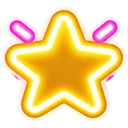
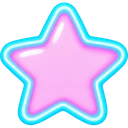
ナチュラルの地図・鍵・空の星、ネオンの星・リセットを追加。🔒の文字をスキン別イラストに差し替え
Claude-Session: https://claude.ai/code/session_01C8PtLCLrCZA399Ryqnq6qb

diff --git a/fit.js b/fit.js
@@ -127,7 +127,7 @@
       t+=(s==='natural'?'.mcIco[data-k='+k+'],':'')+'body[data-vt='+s+'] .mcIco[data-k='+k+']{background-image:url('+BASE+'img/ico/'+s+'_'+k+'.webp)}';
     }); });
     // 絵があるスキンだけイラスト、無いスキンは元の絵文字を表示
-    var HAS={skin:['natural','retro','neon'],gear:['natural','retro','neon'],undo:['natural','retro','neon'],first:['natural','retro','neon'],second:['natural','retro','neon'],map:['retro','neon']};
+    var HAS={skin:['natural','retro','neon'],gear:['natural','retro','neon'],undo:['natural','retro','neon'],first:['natural','retro','neon'],second:['natural','retro','neon'],map:['natural','retro','neon']};
     Object.keys(HAS).forEach(function(k){ ['natural','retro','neon'].forEach(function(s){
       var q=(s==='natural'?'':'body[data-vt='+s+'] ')+'.mcIco[data-k='+k+']';
       if(HAS[k].indexOf(s)>=0) t+=q+'{background-image:url('+BASE+'img/ico/'+s+'_'+k+'.webp);width:1.35em;height:1.35em;vertical-align:-.32em}'+q+'::before{content:none}';
@@ -150,6 +150,49 @@
   function init(){
     css(); scan();
     new MutationObserver(later).observe(document.body,{childList:true,characterData:true,subtree:true});
+  }
+  if(document.readyState==='loading') addEventListener('DOMContentLoaded',init); else init();
+})();
+
+// 🔒 の文字を、スキンごとのイラストに差し替える
+(function(){
+  var BASE=(document.currentScript&&document.currentScript.src||'').replace(/fit\.js.*$/,'');
+  var G={'🔒':'lock'}, RE=/🔒/, SKIP={SCRIPT:1,STYLE:1,TEXTAREA:1,OPTION:1,TITLE:1,CANVAS:1,NOSCRIPT:1,INPUT:1};
+  function css(){
+    var t='.mcGl{display:inline-block;width:1em;height:1em;vertical-align:-.14em;background-position:center;background-size:contain;background-repeat:no-repeat;flex:none}';
+    ['lock'].forEach(function(k){ ['natural','retro','neon'].forEach(function(s){
+      t+=(s==='natural'?'.mcGl[data-k='+k+'],':'')+'body[data-vt='+s+'] .mcGl[data-k='+k+']{background-image:url('+BASE+'img/ico/'+s+'_'+k+'.webp)}';
+    }); });
+    var st=document.createElement('style'); st.textContent=t; document.head.appendChild(st);
+  }
+  function conv(n){
+    var p=n.parentNode; if(!p||SKIP[p.nodeName]||!RE.test(n.nodeValue)) return;
+    var f=document.createDocumentFragment(), v=n.nodeValue, buf='';
+    for(var i=0;i<v.length;i++){
+      var c=v[i]; if(c==='\uD83D'&&v[i+1]==='\uDD12'){c='🔒'; i++;}
+      if(G[c]){ if(buf){ f.appendChild(document.createTextNode(buf)); buf=''; }
+        var e=document.createElement('i'); e.className='mcGl'; e.setAttribute('data-k',G[c]); f.appendChild(e);
+        if(v[i+1]==='\uFE0F'||v[i+1]==='\uFE0E') i++;
+      } else buf+=c;
+    }
+    if(buf) f.appendChild(document.createTextNode(buf));
+    p.replaceChild(f,n);
+  }
+  function walk(r){
+    if(r.nodeType===3){ conv(r); return; }
+    if(r.nodeType!==1||SKIP[r.nodeName]) return;
+    var w=document.createTreeWalker(r,4,null,false), a=[], x; while((x=w.nextNode())) if(RE.test(x.nodeValue)&&!SKIP[x.parentNode.nodeName]) a.push(x);
+    for(var i=0;i<a.length;i++) conv(a[i]);
+  }
+  var q=[], busy=false;
+  function flush(){ busy=false; var l=q; q=[]; for(var i=0;i<l.length;i++) if(l[i].parentNode||l[i]===document.body) walk(l[i]); }
+  function init(){
+    css(); walk(document.body);
+    new MutationObserver(function(ms){
+      for(var i=0;i<ms.length;i++){ var m=ms[i];
+        if(m.type==='characterData') q.push(m.target); else for(var j=0;j<m.addedNodes.length;j++) q.push(m.addedNodes[j]); }
+      if(q.length&&!busy){ busy=true; (window.requestAnimationFrame||setTimeout)(flush); }
+    }).observe(document.body,{childList:true,characterData:true,subtree:true});
   }
   if(document.readyState==='loading') addEventListener('DOMContentLoaded',init); else init();
 })();

diff --git a/sw.js b/sw.js
@@ -1,5 +1,5 @@
 // オフライン対応（ページは最新を優先、画像などはキャッシュを優先）
-const V='gc-v268';
+const V='gc-v269';
 const CORE=['./','index.html','coins.js','backup.js','manifest.webmanifest','icons/icon-192.png',
  ...['reversi','shogi','wanko','gomoku','memory','escape','rings','peg','slide','hanoi'].map(g=>g+'/')];
 self.addEventListener('install',e=>{e.waitUntil(caches.open(V).then(c=>c.addAll(CORE)).then(()=>self.skipWaiting()))});
